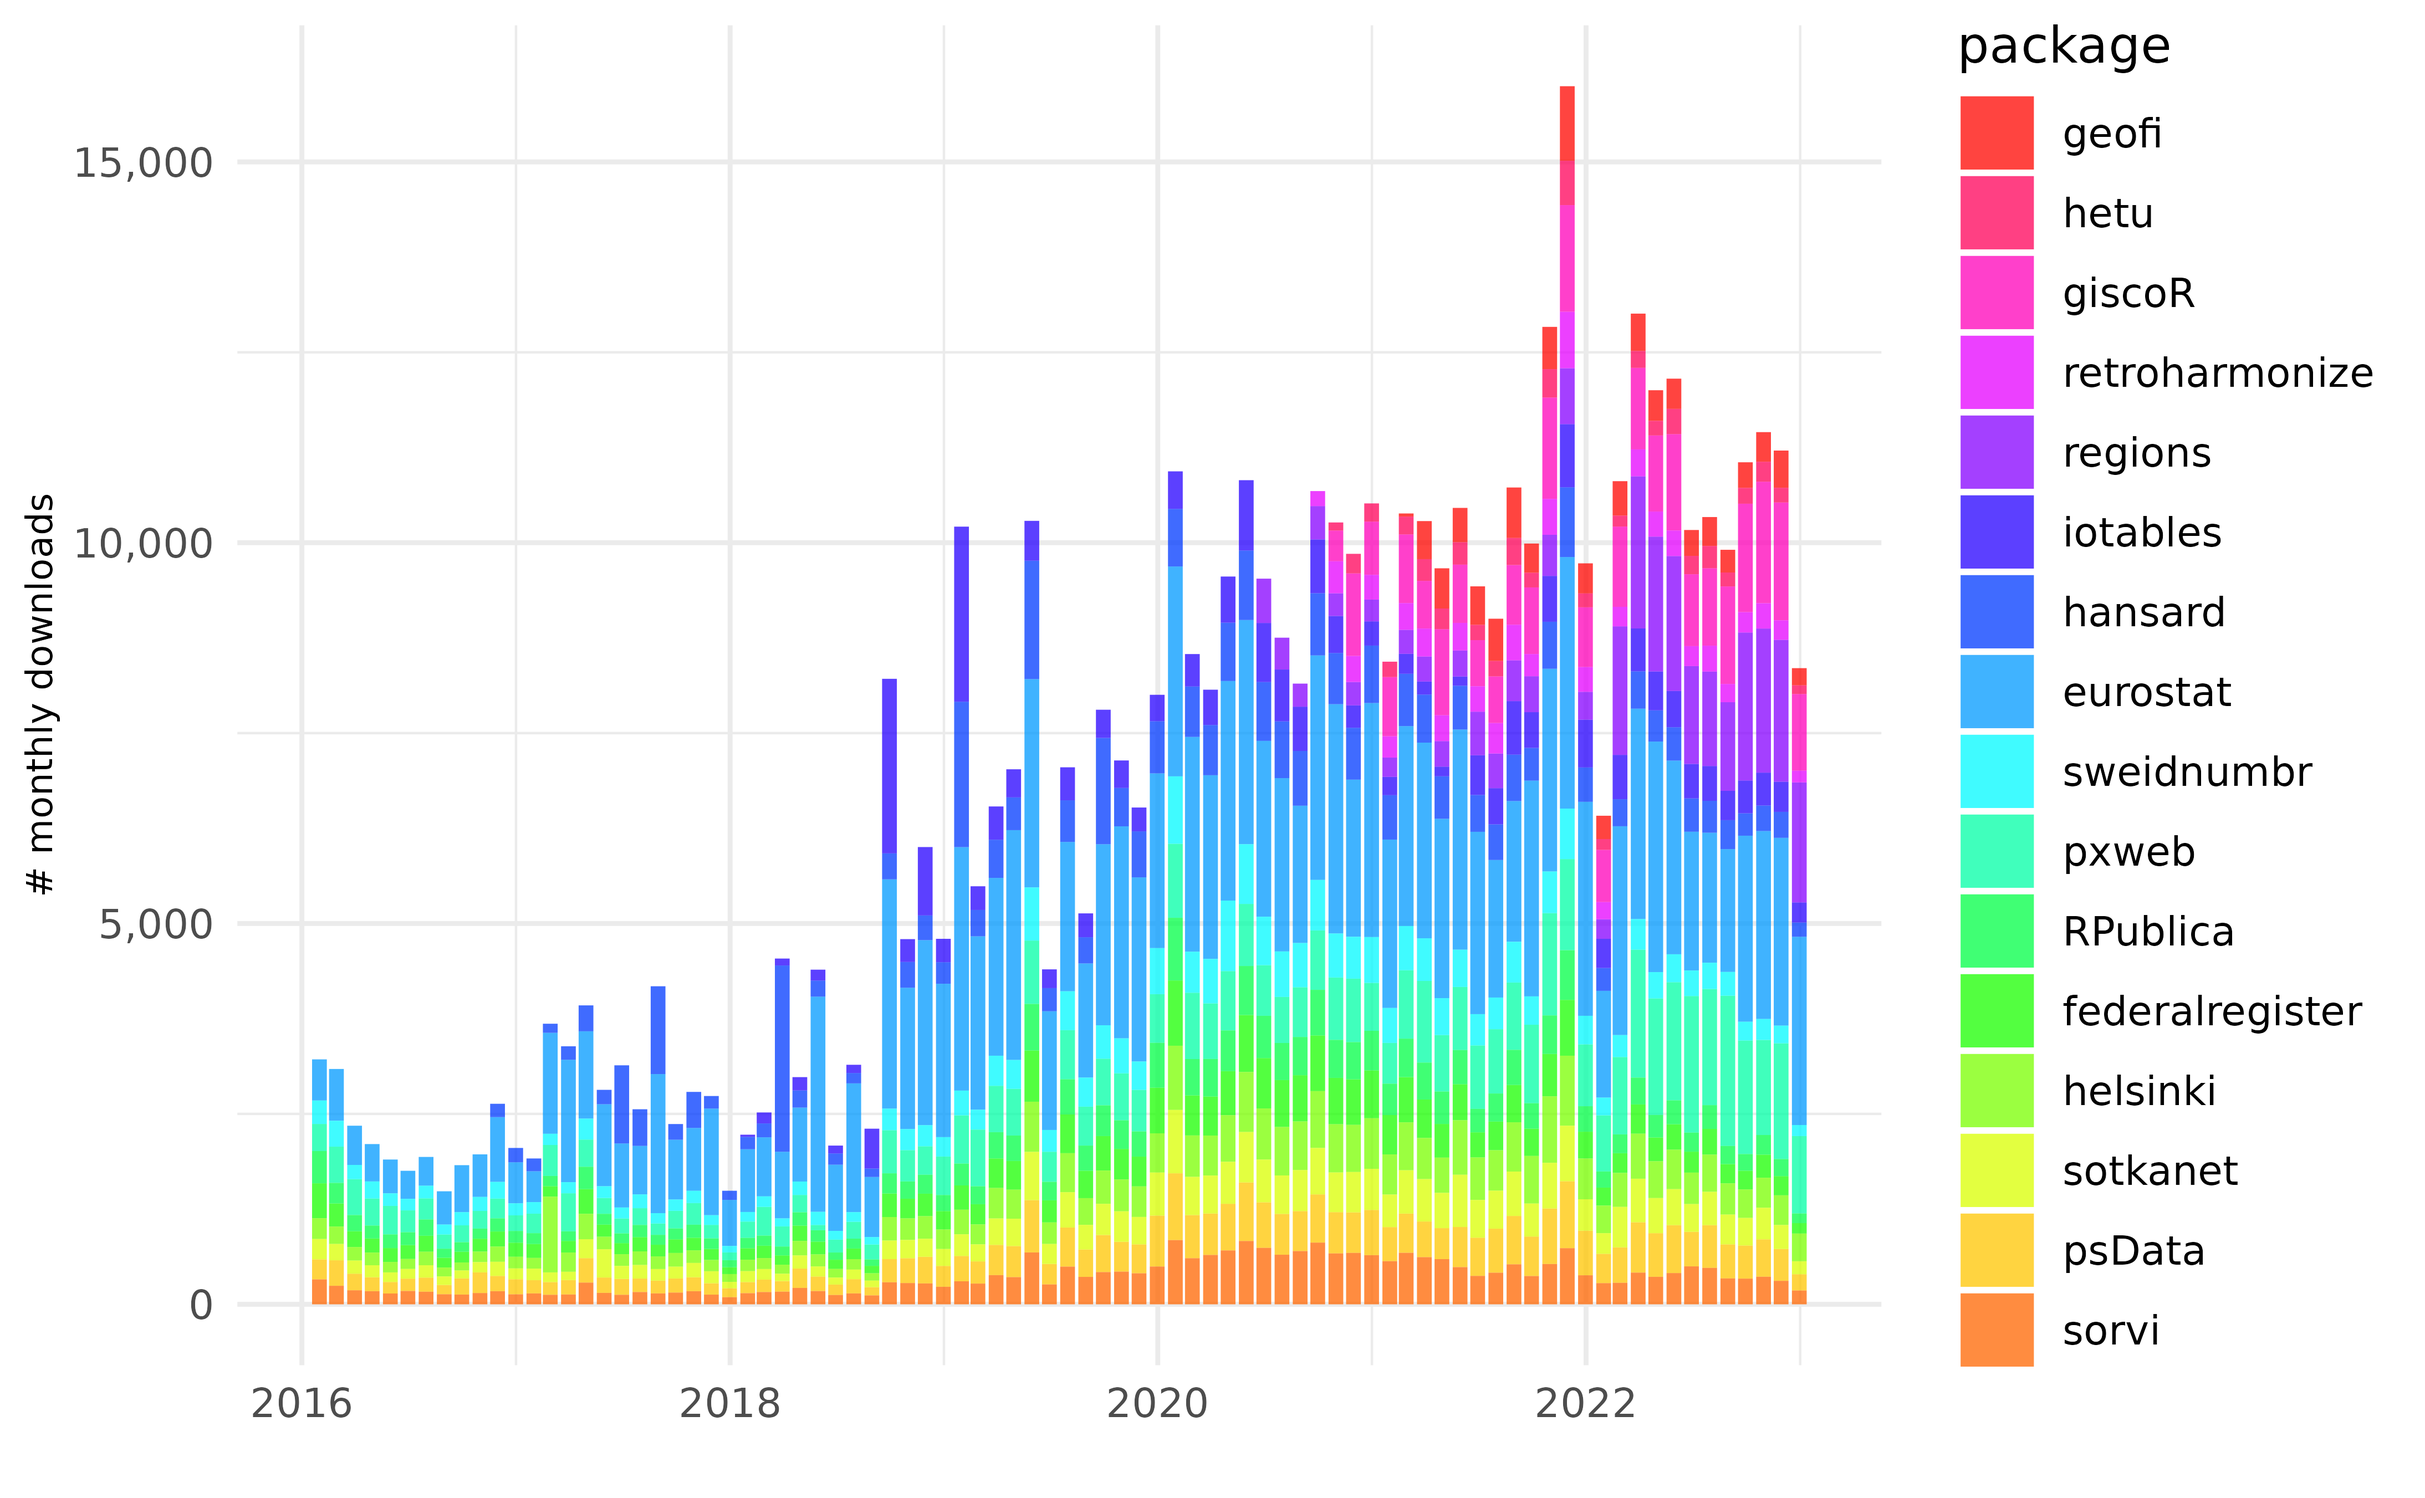
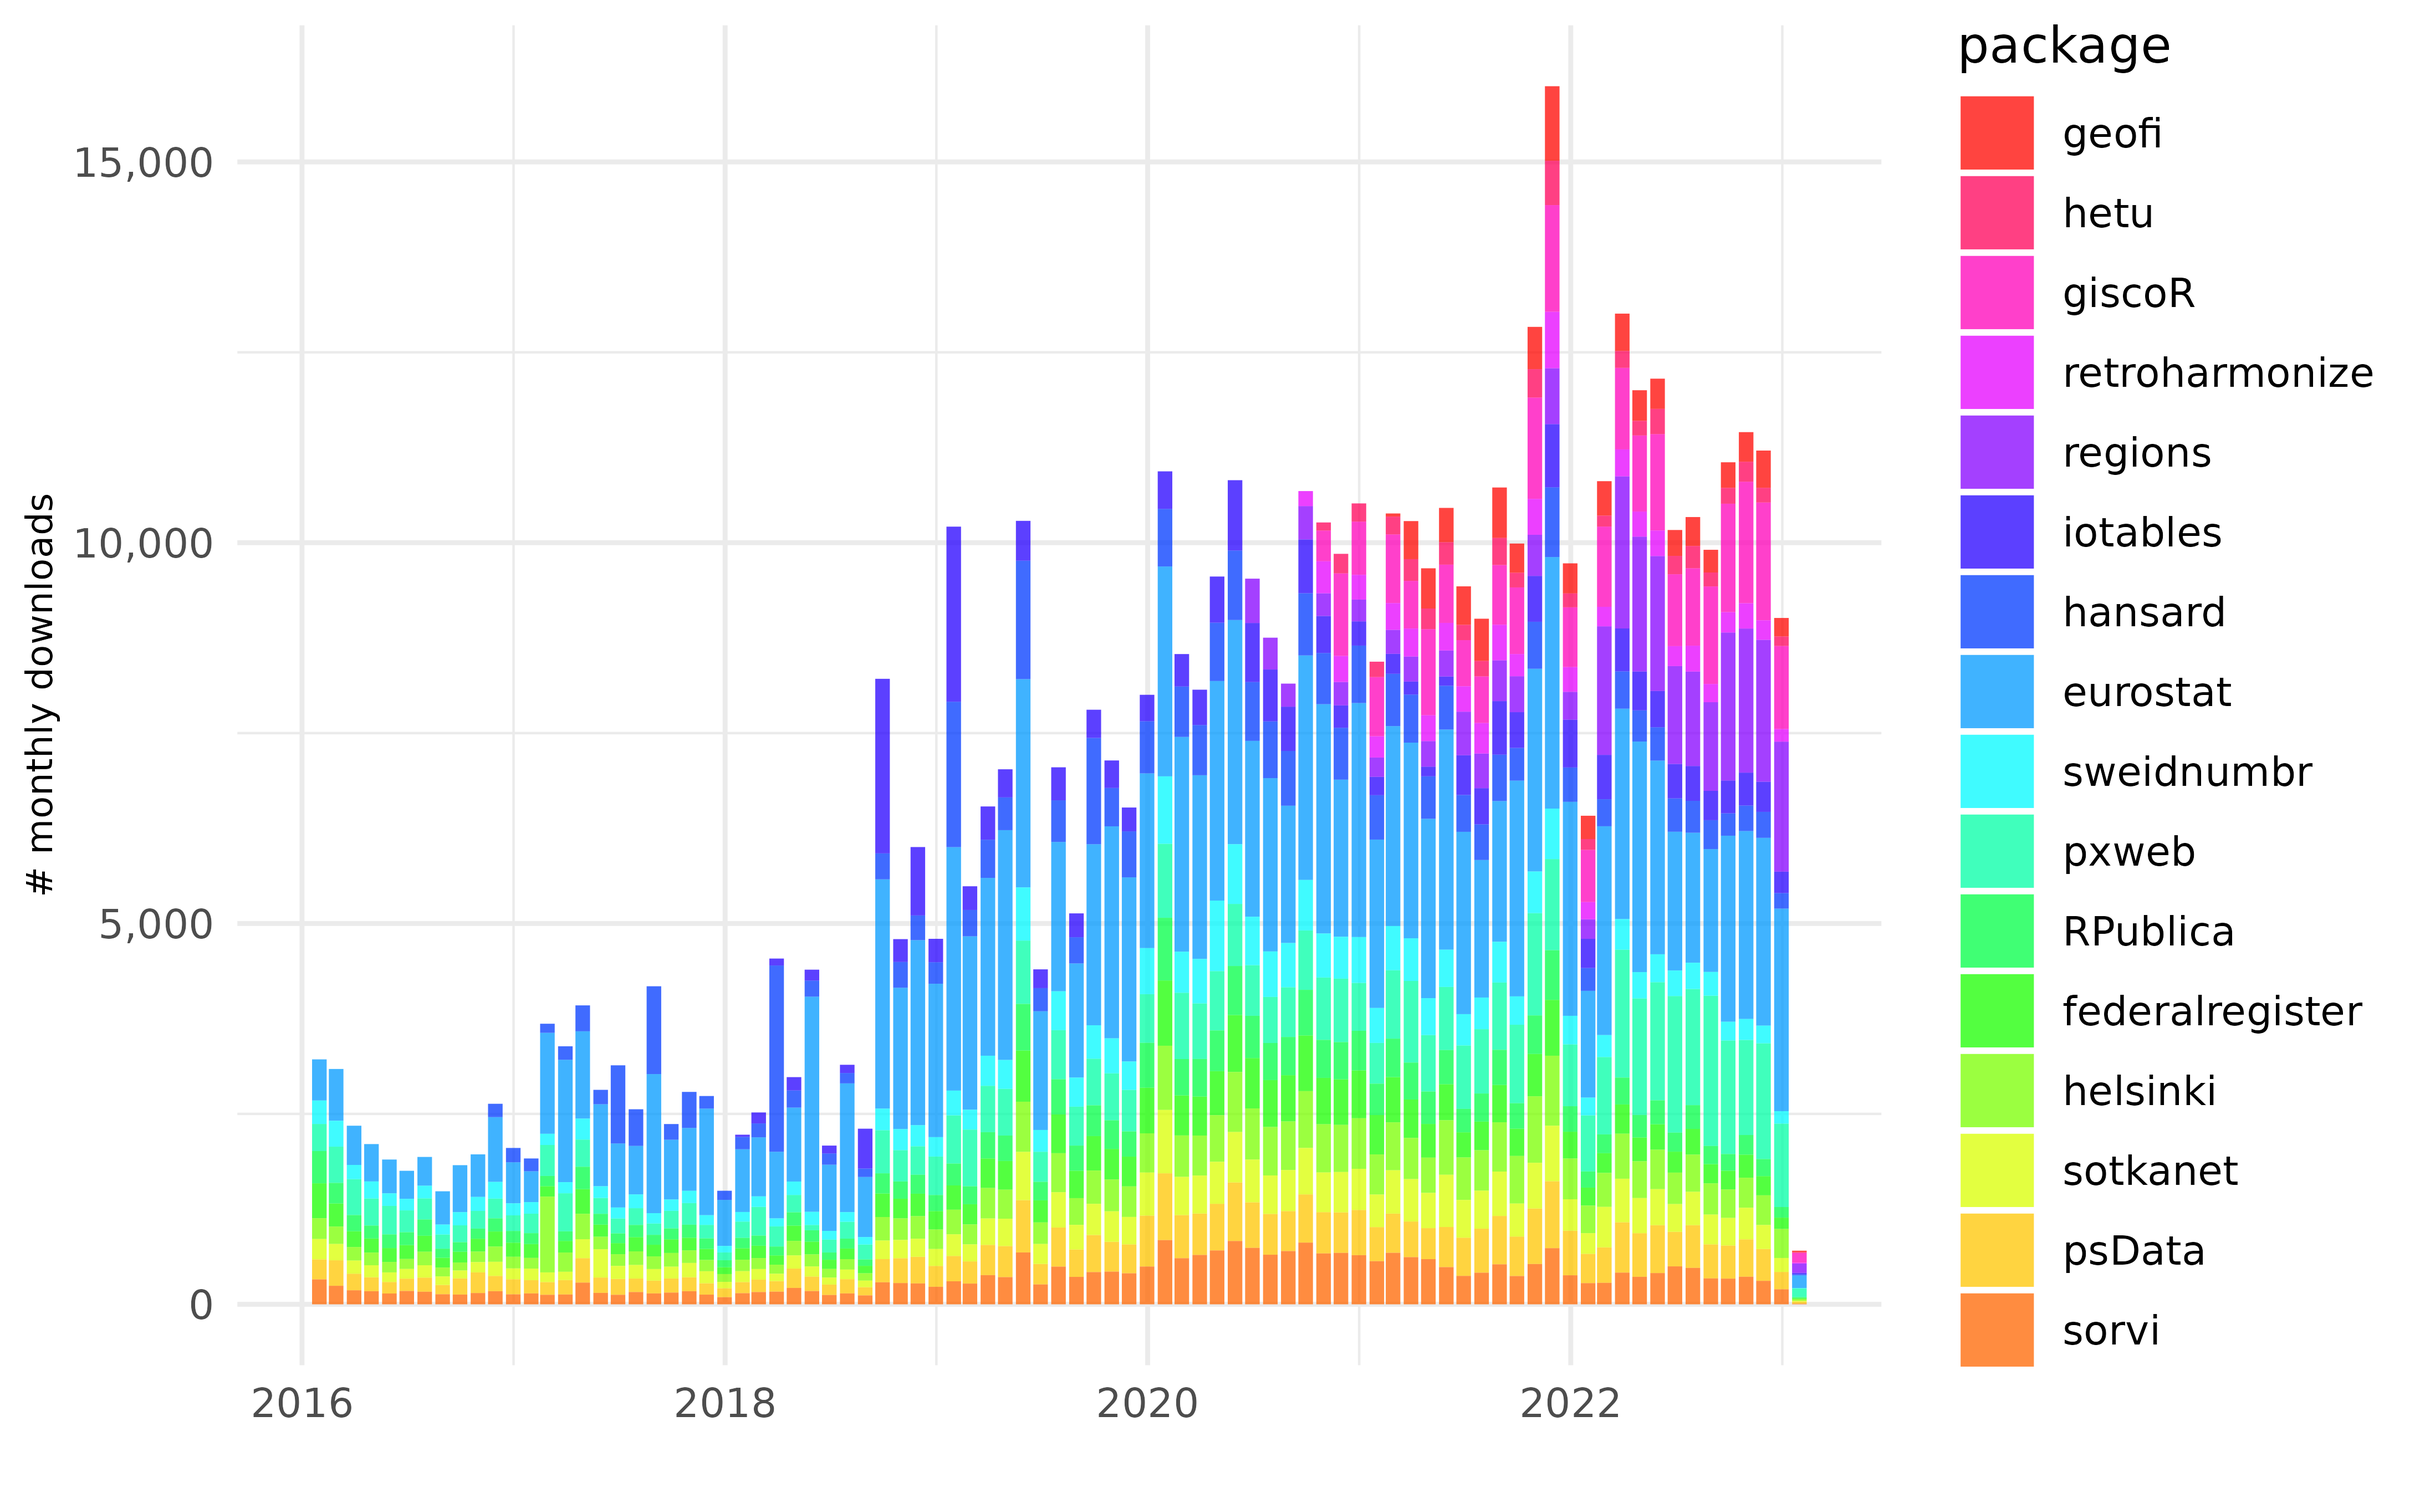
Built site for rogtemplate: 0.0.2.9000@bdcdba0

diff --git a/articles/downloads.html b/articles/downloads.html
@@ -94,7 +94,7 @@
 
     
     
-<p><em>Updated: 29 Dec 2022</em></p>
+<p><em>Updated: 05 Jan 2023</em></p>
 <p>Downloads of rOpenGov packages from CRAN.</p>
 <div class="section level2">
 <h2 id="downloads">Downloads<a class="anchor" aria-label="anchor" href="#downloads"></a>
@@ -110,7 +110,7 @@
 <h2 id="data">Data<a class="anchor" aria-label="anchor" href="#data"></a>
 </h2>
 <div class="reactable html-widget html-fill-item-overflow-hidden html-fill-item" id="station-table" style="width:auto;height:auto;"></div>
-<script type="application/json" data-for="station-table">{"x":{"tag":{"name":"Reactable","attribs":{"data":{"package":["geofi","hetu","giscoR","retroharmonize","regions","iotables","hansard","eurostat","sweidnumbr","pxweb","RPublica","federalregister","helsinki","sotkanet","psData","sorvi"],"on CRAN":["2021-02-20","2020-10-15","2020-10-05","2020-09-21","2020-06-04","2018-01-30","2016-10-31","2015-03-20","2014-09-05","2014-09-03","2014-05-09","2014-05-08","2014-04-13","2014-04-06","2014-02-23","2013-09-30"],"avg daily downloads":[15.1,8.2,33.1,11.4,28.1,16.3,17.7,60.9,11.6,22,10.2,11.4,13.2,11.5,12.8,12],"last day":[5,"NA",15,4,33,5,5,45,5,42,2,3,1,5,2,2],"last week":[62,24,193,37,181,91,65,331,55,233,31,36,88,52,62,46],"last month":[240,123,1078,162,1745,279,201,2700,150,1090,137,149,378,175,226,189],"last year":[4554,2536,13952,3375,18476,5406,4441,27616,3568,17157,3086,3367,5292,4803,5787,4285]},"columns":[{"id":"package","name":"package","type":"character"},{"id":"on CRAN","name":"on CRAN","type":"Date"},{"id":"avg daily downloads","name":"avg daily downloads","type":"numeric"},{"id":"last day","name":"last day","type":"numeric"},{"id":"last week","name":"last week","type":"numeric"},{"id":"last month","name":"last month","type":"numeric"},{"id":"last year","name":"last year","type":"numeric"}],"filterable":true,"searchable":true,"defaultPageSize":16,"showPageSizeOptions":true,"paginationType":"jump","striped":true,"elementId":"station-table","dataKey":"b45ef73edd7047d3fa95c6d221bfd797"},"children":[]},"class":"reactR_markup"},"evals":[],"jsHooks":[]}</script>
+<script type="application/json" data-for="station-table">{"x":{"tag":{"name":"Reactable","attribs":{"data":{"package":["geofi","hetu","giscoR","retroharmonize","regions","iotables","hansard","eurostat","sweidnumbr","pxweb","RPublica","federalregister","helsinki","sotkanet","psData","sorvi"],"on CRAN":["2021-02-20","2020-10-15","2020-10-05","2020-09-21","2020-06-04","2018-01-30","2016-10-31","2015-03-20","2014-09-05","2014-09-03","2014-05-09","2014-05-08","2014-04-13","2014-04-06","2014-02-23","2013-09-30"],"avg daily downloads":[15,8.2,33.1,11.4,28.2,16.3,17.7,60.8,11.5,22.1,10.2,11.3,13.1,11.5,12.8,12],"last day":[6,2,69,6,48,5,4,58,2,65,1,3,9,6,18,3],"last week":[29,16,187,17,207,27,24,284,18,167,19,18,31,18,37,16],"last month":[239,122,1090,161,1597,272,200,2526,157,1098,141,148,348,174,234,188],"last year":[4532,2532,14036,3355,18685,5346,4400,27708,3536,17230,3062,3336,5258,4775,5758,4250]},"columns":[{"id":"package","name":"package","type":"character"},{"id":"on CRAN","name":"on CRAN","type":"Date"},{"id":"avg daily downloads","name":"avg daily downloads","type":"numeric"},{"id":"last day","name":"last day","type":"numeric"},{"id":"last week","name":"last week","type":"numeric"},{"id":"last month","name":"last month","type":"numeric"},{"id":"last year","name":"last year","type":"numeric"}],"filterable":true,"searchable":true,"defaultPageSize":16,"showPageSizeOptions":true,"paginationType":"jump","striped":true,"elementId":"station-table","dataKey":"a993b1a0deb8815f2fb8c9e4bfc4cc89"},"children":[]},"class":"reactR_markup"},"evals":[],"jsHooks":[]}</script>
 </div>
   </main><aside class="col-md-3"><nav id="toc"><h2>On this page</h2>
     </nav></aside>

diff --git a/reference/rog_logo.html b/reference/rog_logo.html
@@ -121,7 +121,7 @@ would run <code><a href="https://usethis.r-lib.org/reference/use_logo.html" clas
 <span class="r-in"><span><span class="va">tmp</span> <span class="op">&lt;-</span> <span class="fu"><a href="https://rdrr.io/r/base/tempfile.html" class="external-link">tempfile</a></span><span class="op">(</span>fileext <span class="op">=</span> <span class="st">".png"</span><span class="op">)</span></span></span>
 <span class="r-in"><span><span class="fu">rog_logo</span><span class="op">(</span><span class="st">"test a package"</span>, <span class="va">tmp</span>, overwrite <span class="op">=</span> <span class="cn">FALSE</span>, favicons <span class="op">=</span> <span class="cn">FALSE</span><span class="op">)</span></span></span>
 <span class="r-msg co"><span class="r-pr">#&gt;</span> B612 Mono font loaded</span>
-<span class="r-msg co"><span class="r-pr">#&gt;</span> Logo created on /tmp/RtmpUfOCH1/file1c24315f3d3f.png</span>
+<span class="r-msg co"><span class="r-pr">#&gt;</span> Logo created on /tmp/RtmpI3Qd0o/file1bdcc566a22.png</span>
 <span class="r-in"><span></span></span>
 <span class="r-in"><span><span class="co"># Display</span></span></span>
 <span class="r-in"><span><span class="va">logo</span> <span class="op">&lt;-</span> <span class="fu">magick</span><span class="fu">::</span><span class="fu"><a href="https://docs.ropensci.org/magick/reference/editing.html" class="external-link">image_read</a></span><span class="op">(</span><span class="va">tmp</span><span class="op">)</span></span></span>

diff --git a/authors.html b/authors.html
@@ -62,7 +62,7 @@
       <h2 id="citation">Citation</h2>
       <p><small class="dont-index">Source: <a href="https://github.com/rOpenGov/rogtemplate/blob/HEAD/DESCRIPTION" class="external-link"><code>DESCRIPTION</code></a></small></p>
 
-      <p>Hernangómez D (2022).
+      <p>Hernangómez D (2023).
 <em>rogtemplate: 'pkgdown' Template for 'rOpenGov' Packages</em>.
 https://ropengov.github.io/rogtemplate/,
 https://github.com/rOpenGov/rogtemplate. 
@@ -70,7 +70,7 @@ https://github.com/rOpenGov/rogtemplate.
       <pre>@Manual{,
   title = {rogtemplate: 'pkgdown' Template for 'rOpenGov' Packages},
   author = {Diego Hernangómez},
-  year = {2022},
+  year = {2023},
   note = {https://ropengov.github.io/rogtemplate/,
 https://github.com/rOpenGov/rogtemplate},
 }</pre>
